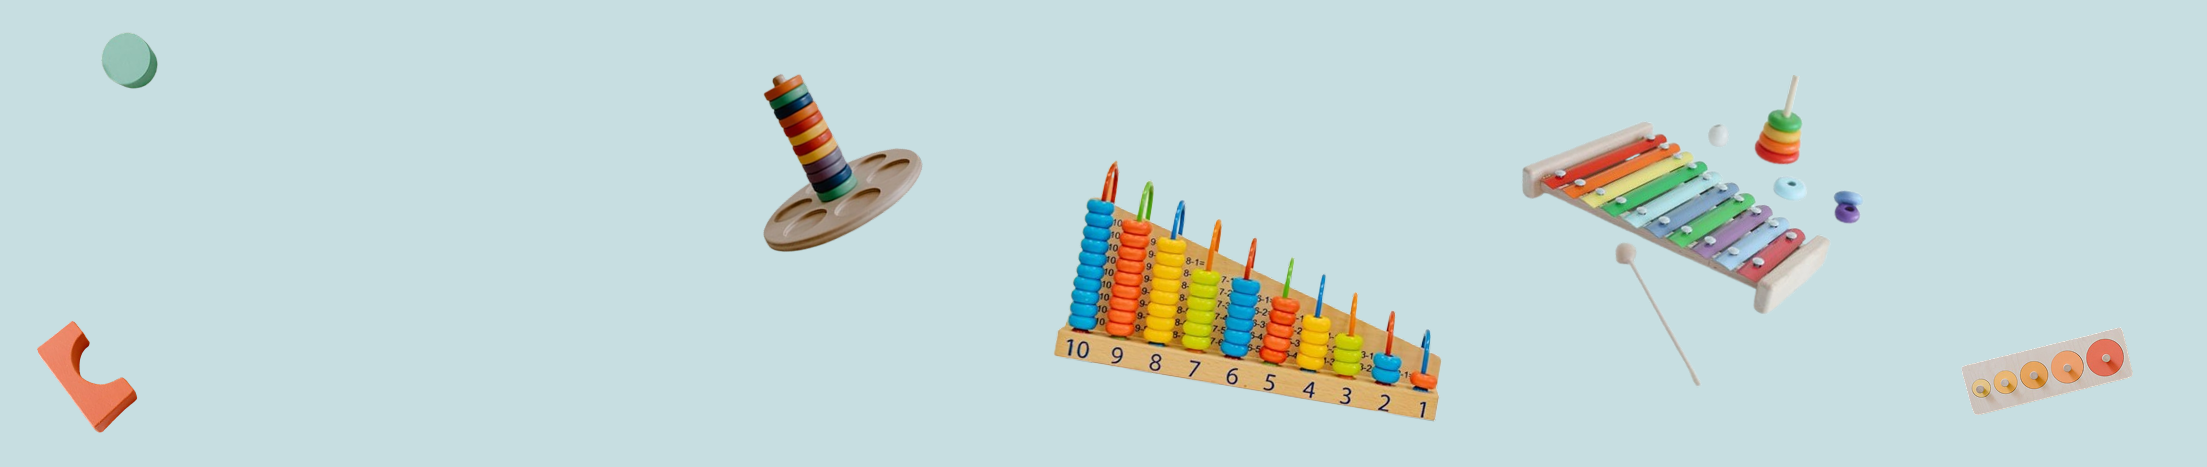
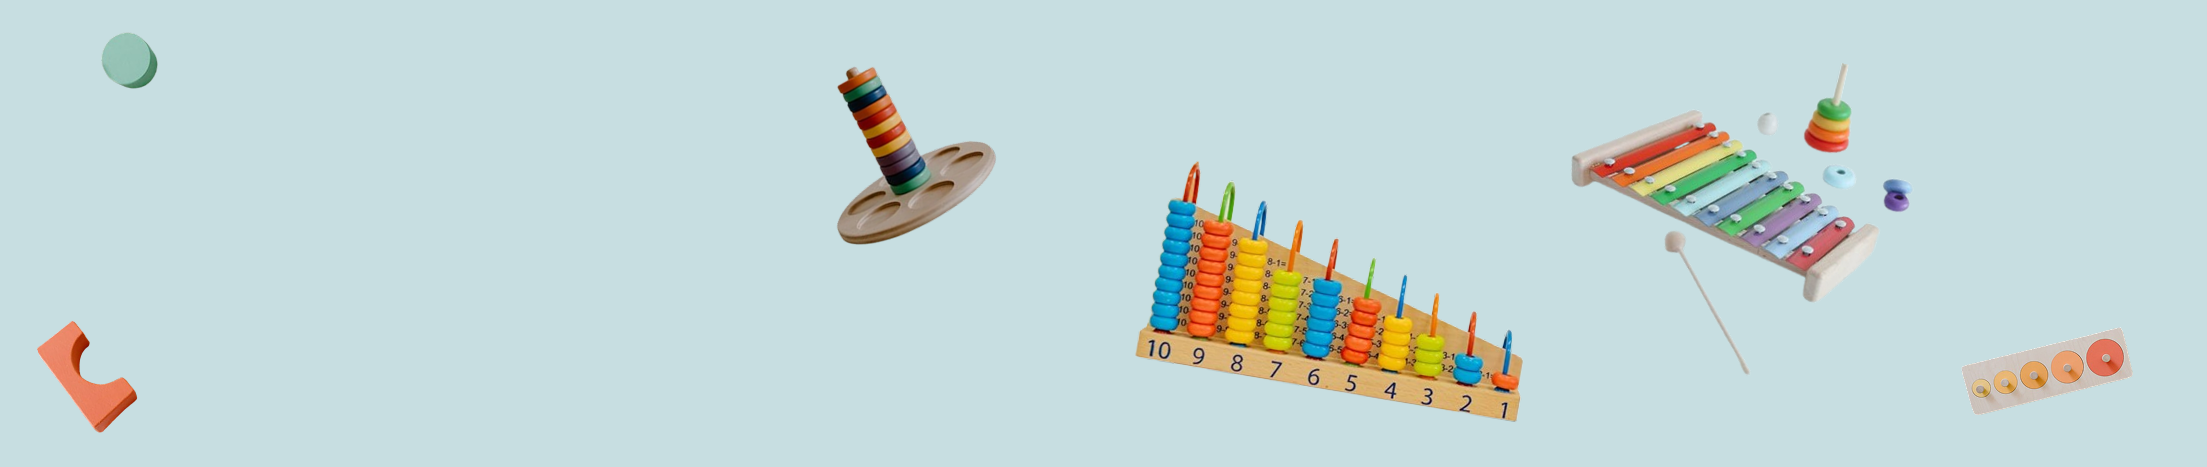
Tamanho da tela

Changed region(s): [[0.4622, 0.3597, 0.7087, 0.8994], [0.6778, 0.2099, 0.8627, 0.6895], [0.3389, 0.1499, 0.4622, 0.5396]]

diff --git a/SpectrumStore/src/TelaProdutos/Tela_produtos.css b/SpectrumStore/src/TelaProdutos/Tela_produtos.css
@@ -25,7 +25,7 @@
   display: flex;
   flex-wrap: wrap;
   justify-content: center;
-  padding: 40px;
+  /* padding: 8px; */
   width: 100%;
   height: 95%; 
   background-color: white; 
@@ -39,9 +39,22 @@
   flex-direction: column;
   align-items: center; 
   text-align: left;
-  border-right: 2px solid #ccc; 
+  border-right: none;
   padding-right: 20px;
-
+  padding-top: 20px;
+  /* height: 500px */
+}
+.wrapper-linha {
+  display: flex;
+  align-items: center; 
+}
+.linha-divisora {
+  /* border: 2px solid; */
+  border-radius: 30px;
+  width: 2px;
+  height: 500px; /* Altere este valor para o que você precisa */
+  background-color: #ccc;
+  margin: 0 20px; /* Ajuste as margens laterais conforme necessário */
 }
 .imagem-produto-container {
   /* border: 2px solid; */
@@ -56,7 +69,7 @@
 }
 .imagem-produto {
   /* border: 2px solid; */
-  min-width: 100%;
+  max-width: 80%;
   max-height: 90%;
   display: flex;
 }
@@ -87,15 +100,17 @@
   margin-top: 10px;
 }
 .secao-personalizacao {
-  border: 2px solid;
+  /* border: 2px solid; */
   flex: 1;
   flex-basis: 20%;
   min-width: 300px;
-  max-height: 90%;
+  max-height: 80%;
   display: flex;
   flex-direction: column;
   align-items: center; 
   padding-left: 20px;
+  padding-top: 20px;
+  
   /* gap: 10px; */
 }
 .titulo-personalizacao {
@@ -115,13 +130,14 @@
 .titulo-opcao {
   /* border: 2px solid; */
   font-weight: 600;
+  font-size: 90%;
   margin-bottom: 0px;
 }
 .opcoes-container {
   /* border: 2px solid; */
   display: flex;
-  gap: 15px; 
-  margin-top: 5px;
+  gap: 4px; 
+  margin-top: 1px;
 }
 .opcoes-container .selecionado {
   /* border: 2px solid; */
@@ -141,10 +157,8 @@
   justify-content: center;
   align-items: center;
   cursor: pointer;
-  width: 50px;
-  height: 50px;
-  font-size: 14px;
-  font-weight: bold;
+  width: 40px;
+  height: 40px;
 }
 .textura-caixa{
   background-color: #f5f5f5;
@@ -155,9 +169,9 @@
   align-items: center;
   cursor: pointer;
   width: auto;
-  padding: 10px;
-  height: 50px;
-  font-size: 13px;
+  padding: 12px;
+  height: 100%;
+  font-size: 12px;
   font-weight: bold;
 }
 .tamanho-caixa{
@@ -186,11 +200,11 @@
   color: #fff;
   border: none;
   border-radius: 5px;
-  padding: 15px 30px;
-  font-size: 1.2em;
+  padding: 10px 30px;
+  font-size: 100%;
   font-weight: bold;
   cursor: pointer;
-  width: 70%;
+  width: 60%;
   text-align: center;
   transition: background-color 0.3s;
   margin-top: 20px;
@@ -212,47 +226,7 @@
   border: none !important; 
   border-radius: 10px;
 }
-@media (max-width: 900px) {
-  .conteudo-principal {
-    flex-direction: column;
-    padding: 20px;
-    box-shadow: none;
-  }
 
-  .secao-produto {
-    border-right: none;
-    border-bottom: 2px solid #ccc; 
-    padding-right: 0;
-    padding-bottom: 20px;
-    min-width: unset; 
-  }
-
-  .secao-personalizacao {
-    padding-left: 0;
-    padding-top: 20px;
-    min-width: unset; 
-  }
-
-  .imagem-produto-container {
-    width: 80%; 
-  }
-
-  .detalhes-texto-container,
-  .detalhes-produto {
-    align-items: center; 
-    text-align: center;
-  }
-
-  .botao-adicionar-carrinho {
-    width: 100%; 
-  }
-
-  .opcoes-container {
-    flex-wrap: wrap; 
-    justify-content: center;
-
-  }
-}
 .personalizacao-item {
   cursor: pointer;
   box-sizing: border-box;

diff --git a/SpectrumStore/src/TelaProdutos/Tela_produtos.jsx b/SpectrumStore/src/TelaProdutos/Tela_produtos.jsx
@@ -69,7 +69,9 @@ function Tela_produtos() {
                </div>
                </div>
             </div>
-
+             <div className="wrapper-linha"> {/* Adicione este wrapper */}
+               <div className="linha-divisora"></div>
+             </div>
           <div className="secao-personalizacao">
            <h3 className="titulo-personalizacao">Personalizações</h3>
            <div className="opcoes-personalizacao">
